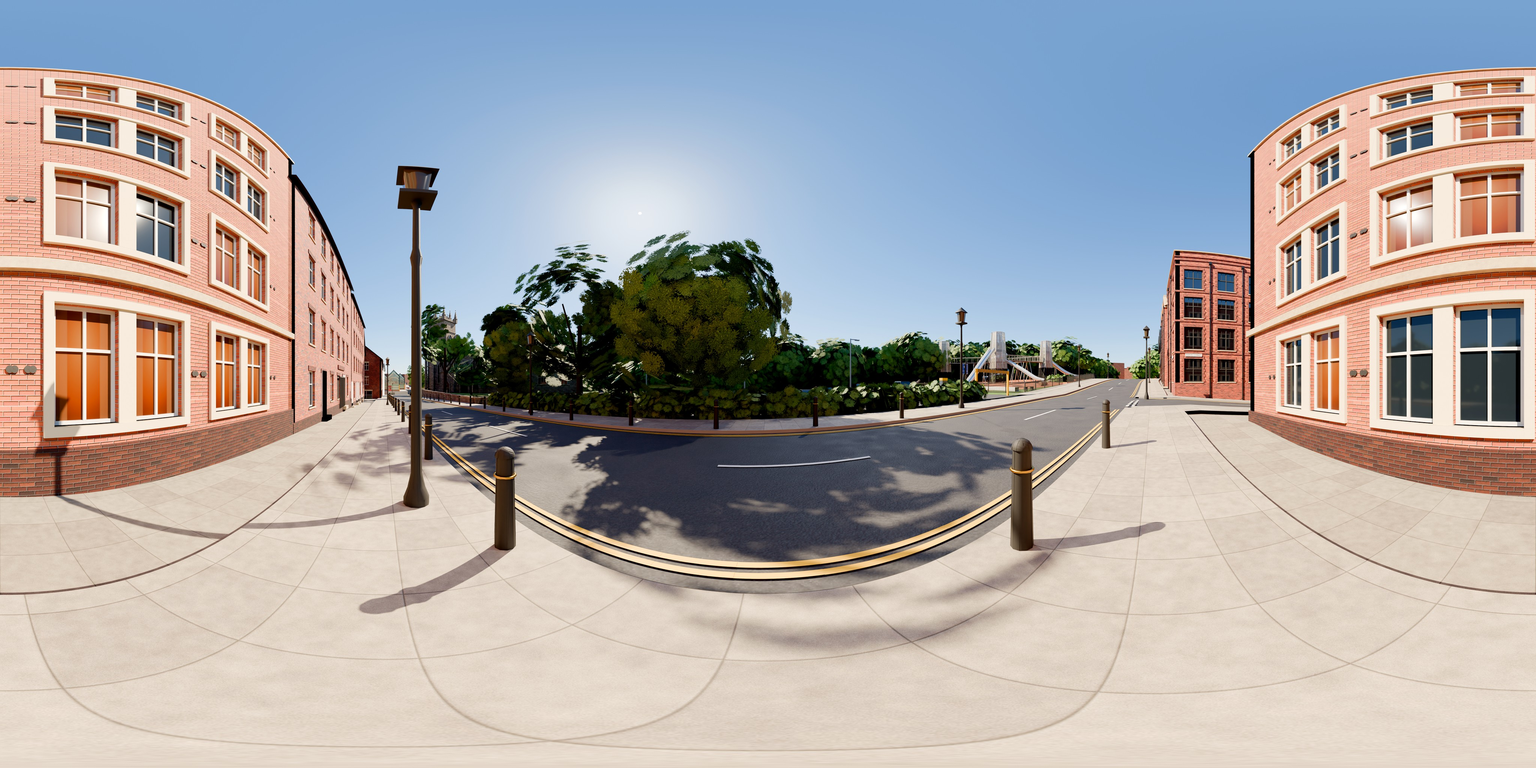
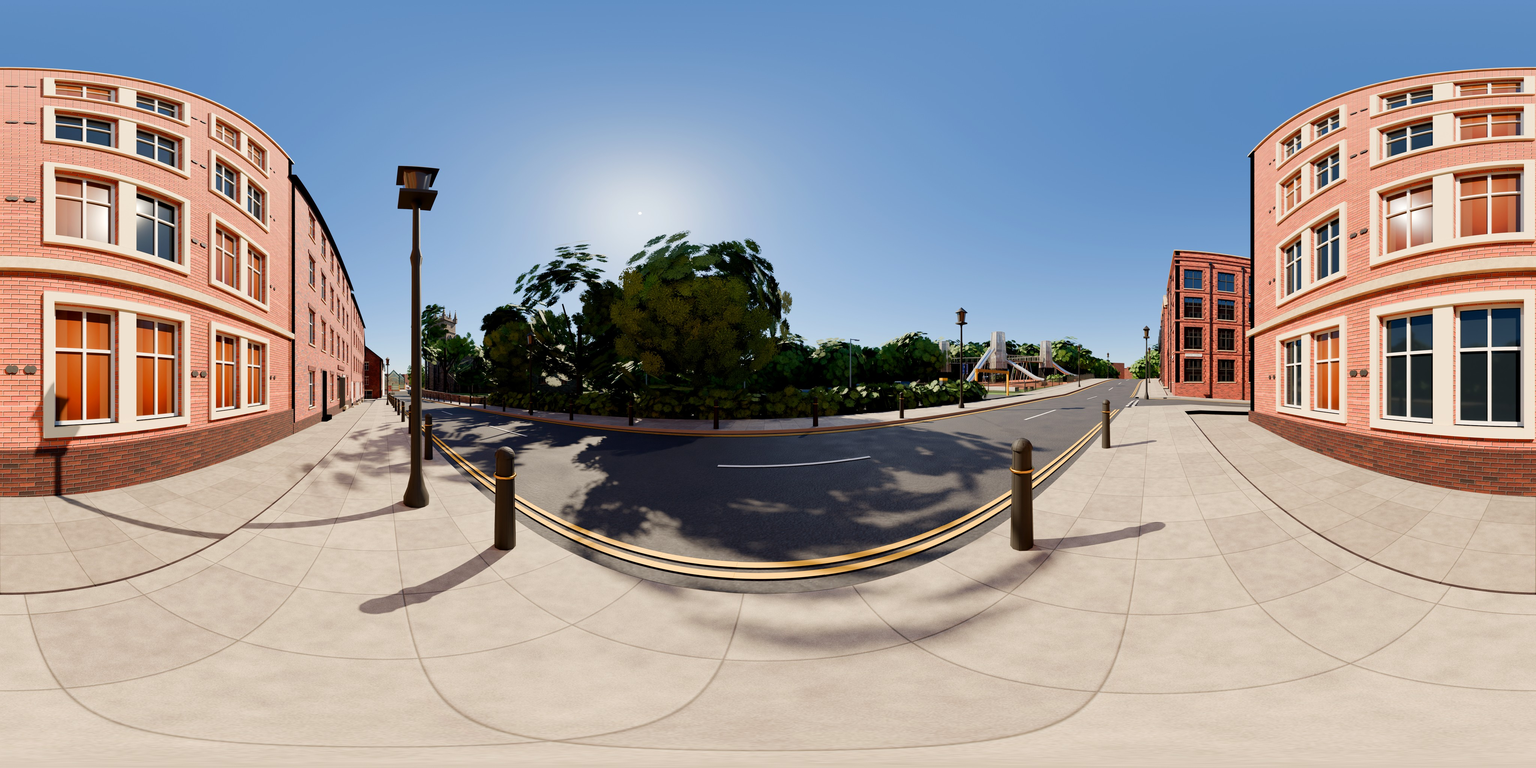
St Mary's Gate 360 re-rendered: sunlit Churchgate fronts, brick re-graded; new picture
Claude-Session: https://claude.ai/code/session_01Sctq4um1xTpqE9nkUqTPNP

diff --git a/3d/js/main.js b/3d/js/main.js
@@ -2090,8 +2090,8 @@ function buildSpots() {
   }
   // photoreal path-traced 360s of the rooms (rendered offline from this model; listed in assets/pano/index.json)
   for (const p of PANO_INDEX) {
-    if (p.spot) { const sp = SPOTS.find((q) => q.id === p.spot); if (sp) { sp.pano = `pano/${p.file}.jpg?v=1794791000`; sp.hd = !!p.hd; sp.glide = false; sp.note = sp.note + ' Photoreal 360°: drag to look round.'; } continue; }   // a street spot with its own photoreal 360
-    SPOTS.push({ id: 'pano-' + p.file, name: p.name, at: V3(...p.pos), look: V3(...p.look), pano: `pano/${p.file}.jpg?v=1794791000`, hd: !!p.hd, glide: false, type: p.type, plot: p.plot, room: p.room || p.name, note: p.note || 'Photoreal 360°. Drag to look round.' });
+    if (p.spot) { const sp = SPOTS.find((q) => q.id === p.spot); if (sp) { sp.pano = `pano/${p.file}.jpg?v=1794797000`; sp.hd = !!p.hd; sp.glide = false; sp.note = sp.note + ' Photoreal 360°: drag to look round.'; } continue; }   // a street spot with its own photoreal 360
+    SPOTS.push({ id: 'pano-' + p.file, name: p.name, at: V3(...p.pos), look: V3(...p.look), pano: `pano/${p.file}.jpg?v=1794797000`, hd: !!p.hd, glide: false, type: p.type, plot: p.plot, room: p.room || p.name, note: p.note || 'Photoreal 360°. Drag to look round.' });
   }
   const LINKS = {"wellington": [], "garden": ["garden2", "walk1", "walktop"], "garden2": ["garden", "walk1"], "walk1": ["garden", "walktop"], "walktop": ["garden", "walk1"], "stjoseph": ["fletcher"], "fletcher": ["stjoseph"], "roof": [], "corner": ["park", "arch", "harvey", "smg"], "park": ["corner", "arch"], "arch": ["corner", "park"], "harvey": ["smg", "corner", "brewery"], "brewery": ["harvey"], "smg": ["harvey", "corner"], "courtyard": ["walkway"], "walkway": ["courtyard"], "church": [], "market": []};   // the spots you can actually see from each spot (pins never show through walls)
   for (const sp of SPOTS) sp.links = LINKS[sp.id] || [];

diff --git a/3d/index.html b/3d/index.html
@@ -721,6 +721,6 @@ input, textarea, #udet .kv, #udet .contact { -webkit-user-select: text; user-sel
   "three/addons/": "https://cdn.jsdelivr.net/npm/three@0.169.0/examples/jsm/"
 } }
 </script>
-<script type="module" src="js/main.js?v=1794791000"></script>
+<script type="module" src="js/main.js?v=1794797000"></script>
 
 </body></html>
